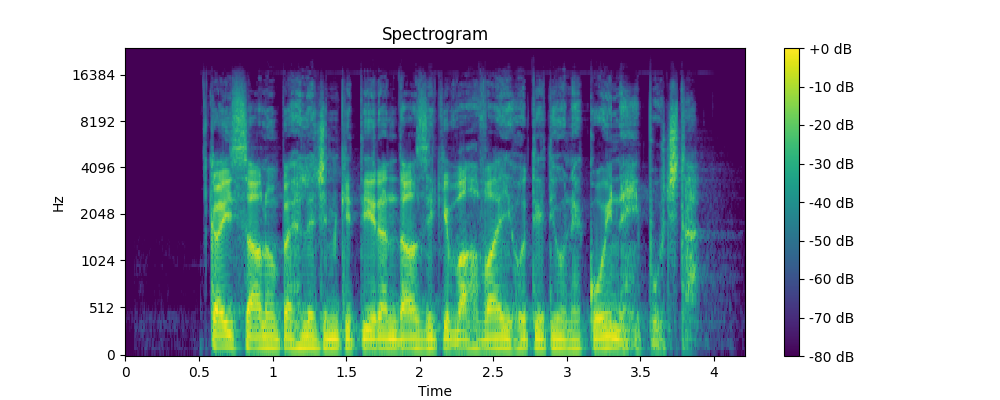
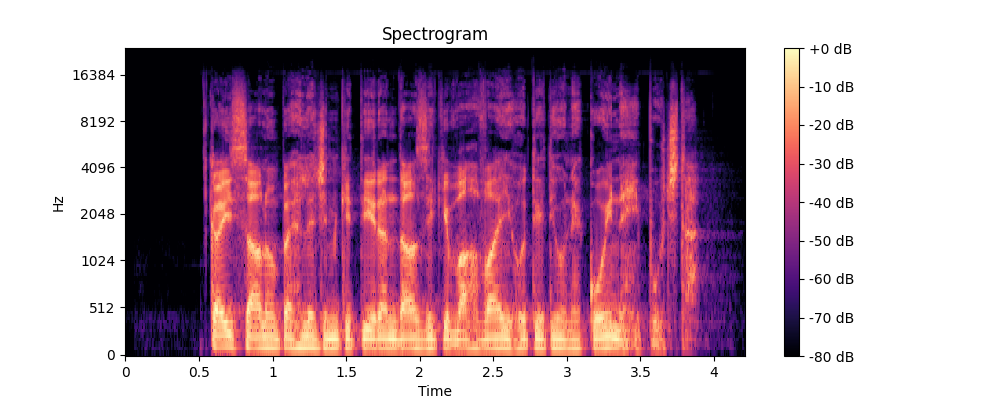
added audio resources in readme.md

diff --git a/Networks/Scratch.py b/Networks/Scratch.py
@@ -1,26 +1,37 @@
 import torch
+import torch.nn as nn
+import matplotlib.pyplot as plt
+import numpy as np
 
-# Create a tensor 'ws'
-ws = torch.randn(5, 10)  # Assuming a 2D tensor with shape (5, 10)
+# Define a simple 1D convolutional layer
+conv1d = nn.Conv1d(in_channels=1, out_channels=1, kernel_size=3)
 
-# Define a block with information about the block to be extracted
-class BlockInfo:
-    def __init__(self, num_conv, num_torgb):
-        self.num_conv = num_conv
-        self.num_torgb = num_torgb
+# Create a 1D input signal
+input_signal = torch.tensor([1.0, 2.0, 3.0, 4.0, 5.0], dtype=torch.float32).view(1, 1, -1)  # Shape: [batch_size, channels, sequence_length]
 
-# Assume you have a 'BlockInfo' instance
-block = BlockInfo(num_conv=3, num_torgb=2)
+# Perform 1D convolution
+output_signal = conv1d(input_signal)
 
-# Index to start extracting the block
-w_idx = 2
+# Convert tensors to numpy arrays for plotting
+input_signal_np = input_signal.squeeze().numpy()
+output_signal_np = output_signal.squeeze().detach().numpy()
 
-# Extract the block using 'narrow'
-block_ws = []
-block_ws.append(ws.narrow(1, w_idx, block.num_conv + block.num_torgb))
+# Plot the input and output signals
+plt.figure(figsize=(10, 4))
 
-# Print the original tensor and the extracted block
-print("Original ws:")
-print(ws.shape)
-print("\nExtracted Block:")
-print(block_ws[0].shape)
+# Plot input signal
+plt.subplot(2, 1, 1)
+plt.plot(input_signal_np, marker='o')
+plt.title('Input Signal')
+plt.xlabel('Index')
+plt.ylabel('Amplitude')
+
+# Plot output signal
+plt.subplot(2, 1, 2)
+plt.plot(output_signal_np, marker='o')
+plt.title('Output Signal after 1D Convolution')
+plt.xlabel('Index')
+plt.ylabel('Amplitude')
+
+plt.tight_layout()
+plt.show()

diff --git a/Preprocess/preprocess_audio.py b/Preprocess/preprocess_audio.py
@@ -4,22 +4,24 @@ import librosa.display
 import matplotlib.pyplot as plt
 import numpy as np
 
-# Load audio file
+def plot_mel_spectrogram(audio_path, hop_length=200):
+    # Load the audio file
+    y, sr = librosa.load(audio_path, sr=16000)
 
-y, sr = librosa.load(audio_path, sr=None)  # Load with the original sample rate
+    # Calculate mel spectrogram
+    mel_spec = librosa.feature.melspectrogram(y, sr=sr, hop_length=hop_length, n_mels=80)
 
-# Compute spectrogram
-spectrogram = librosa.feature.melspectrogram(y, sr=sr, n_fft=1024, hop_length=256, n_mels=128)
-print(spectrogram.shape)
-spectrogram_db = librosa.power_to_db(spectrogram, ref=np.max)
-print(spectrogram_db.shape)
+    # Convert to decibels (log scale)
+    mel_spec_db = librosa.amplitude_to_db(mel_spec, ref=np.max)
+    print(mel_spec_db.shape)
 
-# Plot and save spectrogram as an image
-plt.figure(figsize=(10, 4))
-librosa.display.specshow(spectrogram_db, x_axis='time', y_axis='mel', sr=sr, hop_length=256, cmap='viridis')
-plt.colorbar(format='%+2.0f dB')
-plt.title('Spectrogram')
-plt.savefig('spectrogram.png')  # Save the plot as an image file
+    # Plot mel spectrogram
+    plt.figure(figsize=(10, 4))
+    librosa.display.specshow(mel_spec_db, sr=sr, hop_length=hop_length, x_axis='time', y_axis='mel')
+    plt.colorbar(format='%+2.0f dB')
+    plt.title('Mel Spectrogram')
+    plt.show()
 
-# Show the plot (optional)
-plt.show()
+# Example usage
+# audio_path = "path/to/your/audio/file.wav"
+plot_mel_spectrogram(audio_path)

diff --git a/Networks/Decoder.py b/Networks/Decoder.py
@@ -155,10 +155,11 @@ class Decoder(nn.Module):
         
 if __name__ =="__main__":
     from Options.BaseOptions import opts
-    opts.decoder_size *=1
+    opts.decoder_size *=2
+    
     d = Decoder(opts).to(opts.device)
     print(d.num_layers)
     z_f = torch.randn(10, 18, 512).to(opts.device)
-    img, _ = d(z_f)
-    print(img.shape)
+    # img, _ = d(z_f)
+    # print(img.shape)
 

diff --git a/README.md b/README.md
@@ -8,6 +8,26 @@
 
         1. KR Prajwal, Rudrabha Mukhopadhyay, Vinay P Namboodiri, and CV Jawahar. 2020. A lip sync expert is all you need for speech to lip generation in the wild. 
         InProc. ACM MM. 484–492. ---------------------------------------------------------- Wav2Lip
+        
+        2 . https://towardsdatascience.com/audio-deep-learning-made-simple-part-1-state-of-the-art-techniques-da1d3dff2504
+        
+#### MFCC: Mel Frequency Cepstral Coefficients
+
+        Mel Spectrograms work well for most audio deep learning applications. However, for problems dealing with human speech, like Automatic Speech Recognition,
+        you might find that MFCC (Mel Frequency Cepstral Coefficients) sometimes work better.These essentially take Mel Spectrograms and apply a couple of further 
+        processing steps. This selects a compressed representation of the frequency bands from the Mel Spectrogram that correspond to the most common frequencies
+         at which humans speak.
+
+
+#### SpecAugment: 
+        
+        The normal transforms you would use for an image don’t apply to spectrograms. For instance, a horizontal flip or a rotation would substantially alter the
+        spectrogram and the sound that it represents.Instead, we use a method known as SpecAugment where we block out sections of the spectrogram.
+        There are two flavors:
+
+        1. Frequency mask — randomly mask out a range of consecutive frequencies by adding horizontal bars on the spectrogram.
+        2. Time mask — similar to frequency masks, except that we randomly block out ranges of time from the spectrogram by using vertical bars.
+
 
 ## Visual Encoder: StyleGAN Inversion Network
 
@@ -63,3 +83,16 @@
 ### ArcFace : 
         1. Jiankang Deng, Jia Guo, Niannan Xue, and Stefanos Zafeiriou. 2019. Arcface:
         Additive angular margin loss for deep face recognition. In Proc. CVPR. 4690–4699.
+
+
+### Status :
+        1. Canonical Encoder : Done
+        2. Motion Encoder : Done 
+        3. Temporal Fusion : Need to understand the concept behind it. (Number of layer)
+        4. Decoder : Done
+        5. Visual Encoder : Done
+        6. Audio Encoder : Need to understand the concept behind it.
+
+### To Do next: 
+        1. Audio Encoder - Reading paper referenced 
+        2. Temporal Fusion - Finding paper related to it
